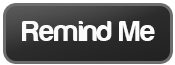
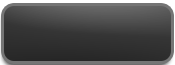
IOS: back and remind me buttons are smaller

diff --git a/Cloud9App/Cloud9App/eventDetailsController.m b/Cloud9App/Cloud9App/eventDetailsController.m
@@ -106,9 +106,9 @@
     // description label is created programmatically
     CGRect descFrame = CGRectMake(12, 360, 290, 600);
     UILabel *descLabel = [[UILabel alloc] initWithFrame:descFrame];
-    descLabel.textColor = [UIColor whiteColor];
+    descLabel.textColor = [UIColor lightGrayColor];
     descLabel.backgroundColor = [UIColor clearColor];
-    [descLabel setFont:[UIFont fontWithName:@"American Typewriter" size:14]];
+   [descLabel setFont:[UIFont fontWithName:@"Helvetica" size:14]];
     descLabel.text = description;
     
     // Tell the label to use an unlimited number of lines
@@ -117,10 +117,10 @@
     [self.view    addSubview:descLabel ];
 
     // adding the voucher button
-    UIImage *buttonBackground = [UIImage imageNamed:@"coupon.png"];
-    UIImage *buttonBackgroundPressed = [UIImage imageNamed:@"coupon.png"];
-    CGRect frame = CGRectMake(80.0, 320.0, 160.0, 35.0);
-    UIButton *button = [KSGuiUtilities buttonWithTitle:@"Voucher"
+    UIImage *buttonBackground = [UIImage imageNamed:@"buttonVoucher.png"];
+    UIImage *buttonBackgroundPressed = [UIImage imageNamed:@"buttonVoucher.png"];
+    CGRect frame = CGRectMake(100.0, 320.0, 100.0, 35.0);
+    UIButton *button = [KSGuiUtilities buttonWithTitle:@""
                                                 target:self
                                               selector:@selector(voucherAction)
                                                  frame:frame
@@ -133,8 +133,8 @@
 
     // adding reminder button
     UIImage *btnRemindMe = [UIImage imageNamed:@"buttonRemindMe.png"];
-    CGRect frame1= CGRectMake(200.0, 5.0, 100.0, 35.0);
-    UIButton *remindButton = [KSGuiUtilities buttonWithTitle:@""
+    CGRect frame1= CGRectMake(200.0, 5.0, 80.0, 25.0);
+    UIButton *remindButton = [KSGuiUtilities buttonWithTitle:@"Remind Me"
                                                 target:self
                                               selector:@selector(addToCalendar:)
                                                  frame:frame1

diff --git a/Cloud9App/Cloud9App/Voucher.m b/Cloud9App/Cloud9App/Voucher.m
@@ -67,10 +67,10 @@ NSString *voucherDescription;
 }
 
 - (void) addScanButton {
-    UIImage *buttonBackground = [UIImage imageNamed:@"camera-lens.png"];
-    UIImage *buttonBackgroundPressed = [UIImage imageNamed:@"camera-lens-pressed.png"];
+    UIImage *buttonBackground = [UIImage imageNamed:@"buttonScan.png"];
+    UIImage *buttonBackgroundPressed = [UIImage imageNamed:@"buttonScan.png"];
     
-    CGRect frame = CGRectMake(50.0, 100.0, 200.0, 200.0);
+    CGRect frame = CGRectMake(115.0, 390.0, 100.0, 35.0);
     scanButton = [KSGuiUtilities buttonWithTitle:@""
                                                    target:self
                                                  selector:@selector(scanButtonPress:)

diff --git a/Cloud9App/Cloud9App/KSGuiUtilities.m b/Cloud9App/Cloud9App/KSGuiUtilities.m
@@ -7,6 +7,7 @@
 //
 
 #import "KSGuiUtilities.h"
+#import "KSUtilities.h"
 
 
 @implementation KSGuiUtilities
@@ -25,6 +26,7 @@
     button.contentHorizontalAlignment = UIControlContentHorizontalAlignmentCenter;
     
     [button setTitle:title forState:UIControlStateNormal];
+    [button.titleLabel setFont:[UIFont fontWithName:[KSUtilities getDefaultFont] size:12]];
 
 
     if (darkTextColor) {

diff --git a/Cloud9App/Cloud9App/KSUtilities.m b/Cloud9App/Cloud9App/KSUtilities.m
@@ -138,7 +138,7 @@ UIImage *btnImg = [UIImage imageNamed:@"backButton.png"];
 btn.titleLabel.font = [UIFont boldSystemFontOfSize:12];
 btn.titleLabel.font = [UIFont fontWithName:kDefaultFont size:12] ;
 
-btn.frame = CGRectMake(0, 0, 60, 35);
+btn.frame = CGRectMake(0, 0, 45, 25);
 
 return btn;
 }
